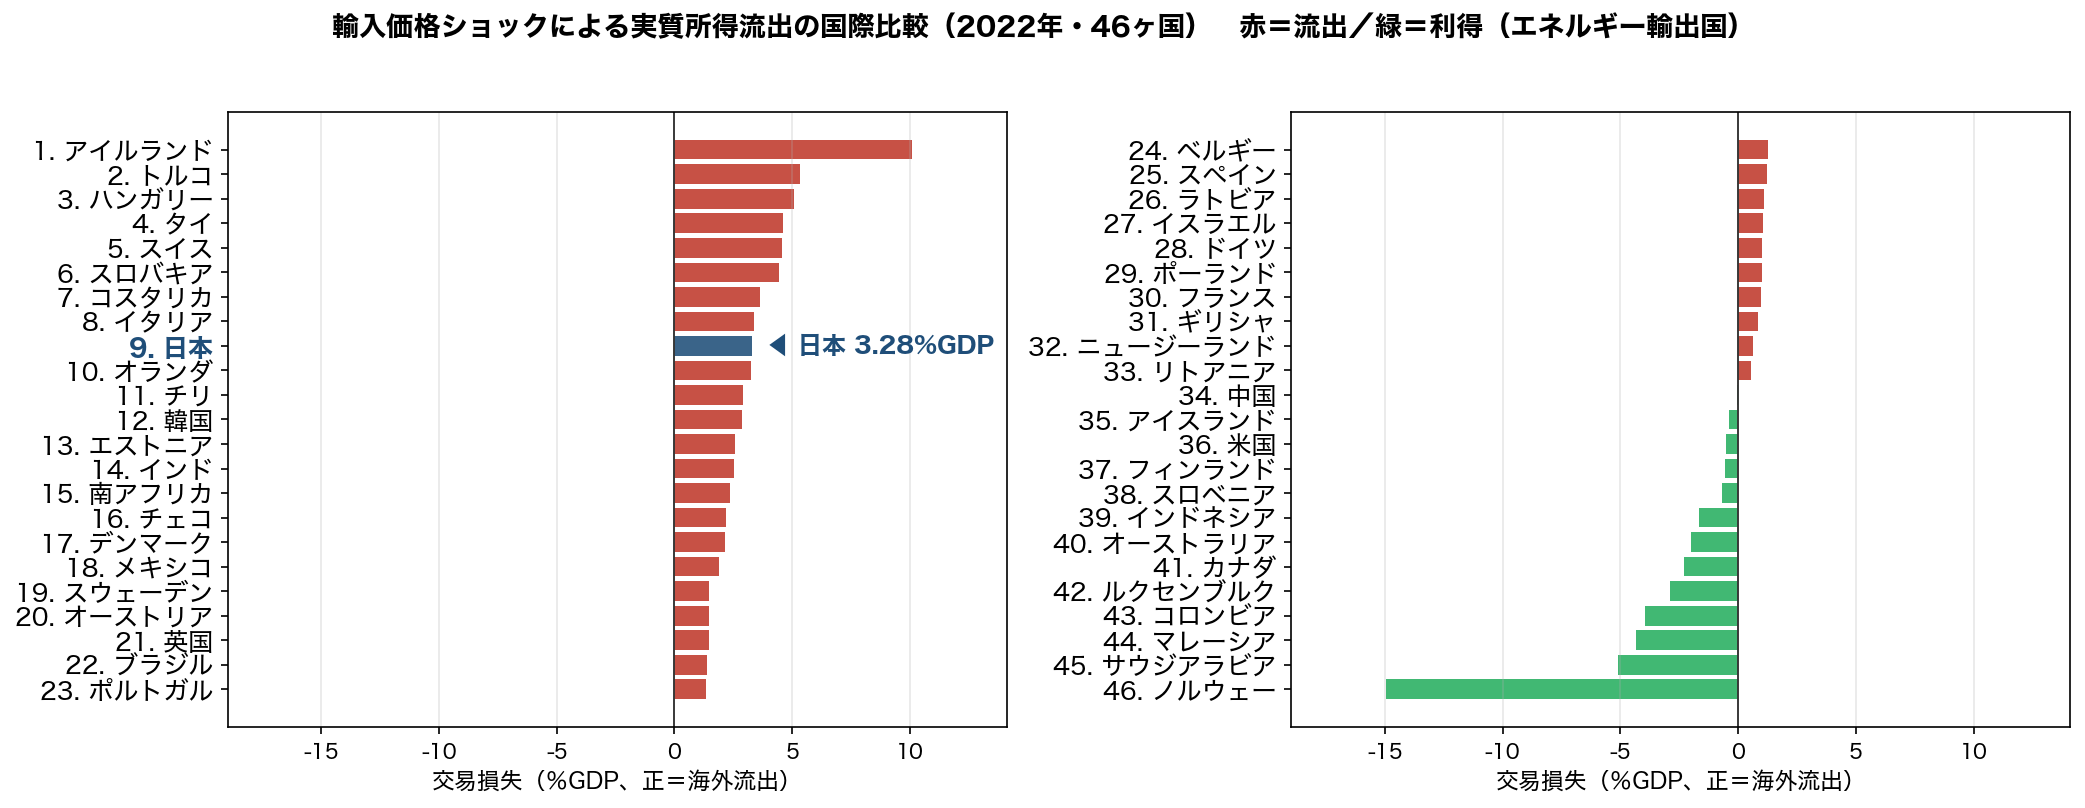
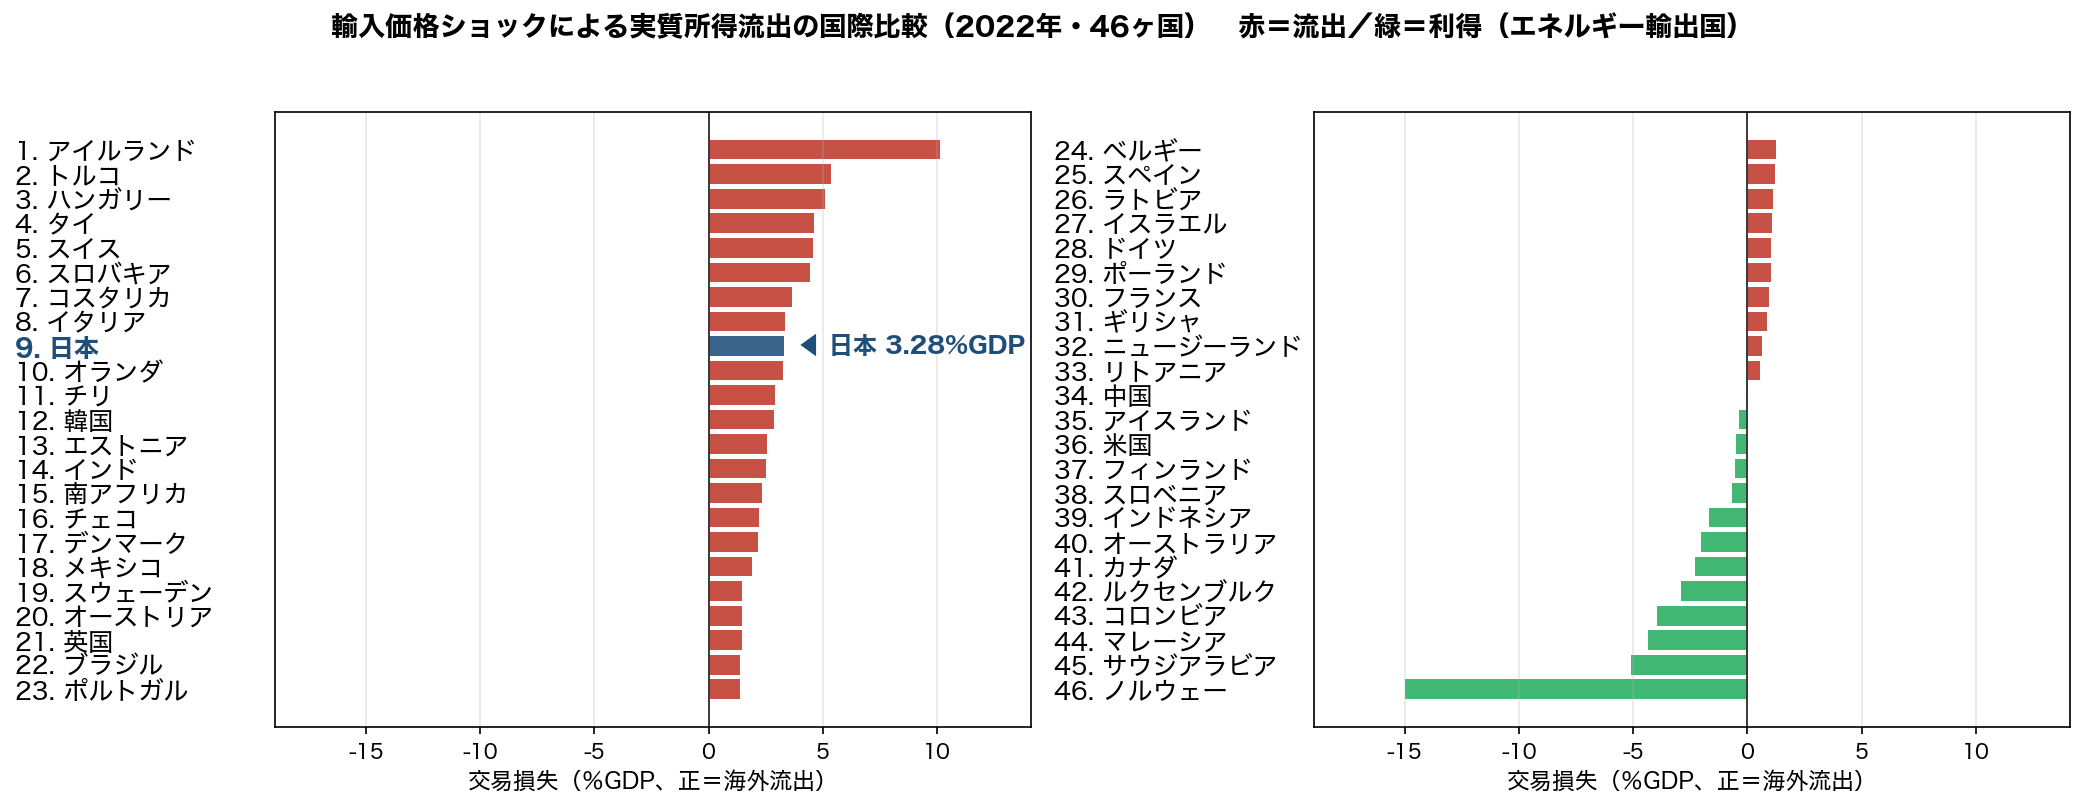
fix(slides): s1図の縦軸ラベル(順位+国名)を左揃えに
デフォルトの右揃えから左揃えへ。最長ラベル幅を描画後に実測し、
プロットへ食い込まないよう tick pad を自動設定。

Claude-Session: https://claude.ai/code/session_016REqM26jsjTnFCfUNEYCqP

diff --git a/src/analysis/deindustrialization_fig_slide.py b/src/analysis/deindustrialization_fig_slide.py
@@ -70,7 +70,7 @@ def main():
         ax.set_yticks(y)
         labels = [f"{rank[i]}. {jname(i, c)}"
                   for i, c in zip(seg.index, seg["country"])]
-        ax.set_yticklabels(labels, fontsize=12)
+        ax.set_yticklabels(labels, fontsize=12, ha="left")
         for t, i in zip(ax.get_yticklabels(), seg.index):
             if i == "JPN":
                 t.set_color(C_JP); t.set_fontweight("bold")
@@ -90,6 +90,16 @@ def main():
     fig.suptitle("輸入価格ショックによる実質所得流出の国際比較（2022年・46ヶ国）　"
                  "赤＝流出／緑＝利得（エネルギー輸出国）",
                  fontsize=13, fontweight="bold", y=0.99)
+
+    # 左揃えラベルがプロットへ食い込まないよう、最長ラベル幅ぶんの pad を実測設定
+    fig.canvas.draw()
+    renderer = fig.canvas.get_renderer()
+    maxw = max(t.get_window_extent(renderer=renderer).width
+               for ax in axes for t in ax.get_yticklabels())
+    pad_pts = maxw * 72.0 / fig.dpi + 6
+    for ax in axes:
+        ax.tick_params(axis="y", pad=pad_pts, length=0)
+
     plt.tight_layout(rect=(0, 0, 1, 0.96))
     ASSETS.mkdir(parents=True, exist_ok=True)
     p = ASSETS / "s2b-tot-loss-ranking.png"
